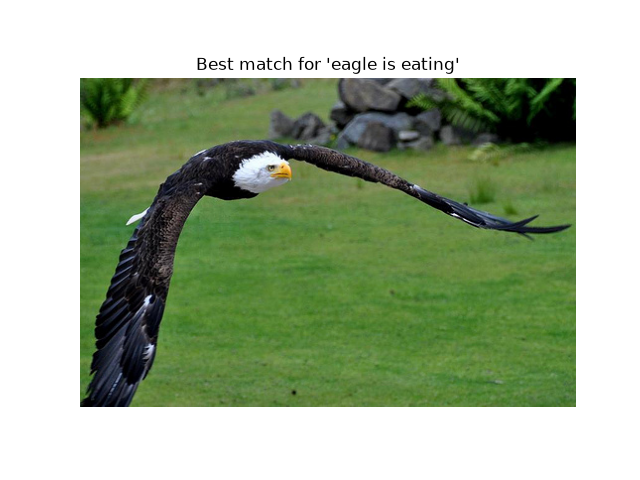
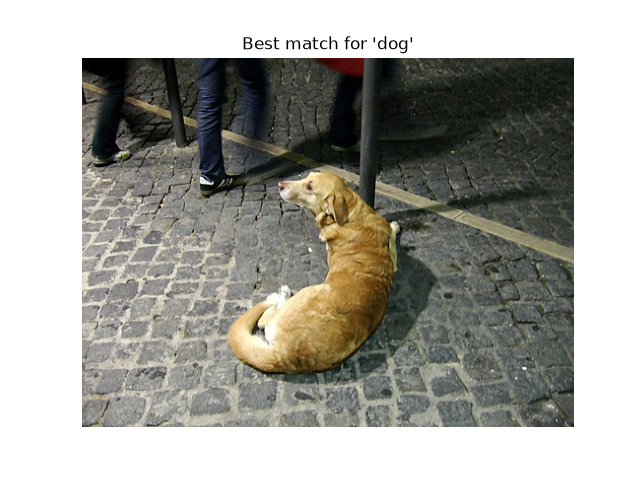
feat: add FastAPI search endpoint

diff --git a/src/api.py b/src/api.py
@@ -1,0 +1,123 @@
+from pathlib import Path
+import os
+import time
+from contextlib import asynccontextmanager
+
+import torch
+import faiss
+from fastapi import FastAPI, Request, Query
+from fastapi.staticfiles import StaticFiles
+from fastapi.responses import RedirectResponse
+from pydantic import BaseModel
+from fastapi.middleware.cors import CORSMiddleware
+
+from .model_loader import load_model
+
+INDEX_PATH = "outputs/faiss.index"
+EMBEDDINGS_PATH = "outputs/embeddings.pt"
+IMAGES_DIR = Path.home() / "Desktop" / "archive" / "Images"
+
+
+@asynccontextmanager
+async def lifespan(app: FastAPI):
+    print("Model and index loading")
+    start = time.perf_counter()
+
+    model, processor = load_model()
+
+    embeddings = torch.load(EMBEDDINGS_PATH)
+    filenames = list(embeddings.keys())
+    image_matrix = torch.stack(list(embeddings.values()))
+    image_matrix = image_matrix / image_matrix.norm(dim=1, keepdim=True)
+    image_matrix = image_matrix.numpy().astype("float32")
+
+    if os.path.exists(INDEX_PATH):
+        index = faiss.read_index(INDEX_PATH)
+    else:
+        index = faiss.IndexFlatIP(image_matrix.shape[1])
+        index.add(image_matrix)
+        faiss.write_index(index, INDEX_PATH)
+
+    app.state.model = model
+    app.state.processor = processor
+    app.state.index = index
+    app.state.filenames = filenames
+
+    print(f"Ready ({time.perf_counter() - start:.2f}s)")
+
+    yield
+
+    app.state.model = None
+    app.state.processor = None
+    app.state.index = None
+    app.state.filenames = None
+
+
+class SearchRequest(BaseModel):
+    query: str
+    k: int = 5
+
+
+class SearchResult(BaseModel):
+    filename: str
+    score: float
+    image_url: str
+
+
+class SearchResponse(BaseModel):
+    results: list[SearchResult]
+
+
+app = FastAPI(lifespan=lifespan)
+app.mount("/images", StaticFiles(directory=IMAGES_DIR), name="images")
+
+
+@app.get("/")
+def root():
+    return {"status": "ok"}
+
+
+@app.post("/search", response_model=SearchResponse)
+def search(payload: SearchRequest, request: Request):
+    model = request.app.state.model
+    processor = request.app.state.processor
+    index = request.app.state.index
+    filenames = request.app.state.filenames
+
+    text_inputs = processor(text=[payload.query], return_tensors="pt", padding=True)
+    with torch.no_grad():
+        text_features = model.get_text_features(**text_inputs)
+        text_features = text_features / text_features.norm(dim=1, keepdim=True)
+        text_features = text_features.numpy().astype("float32")
+
+    scores, indices = index.search(text_features, payload.k)
+
+    results = [
+        SearchResult(
+            filename=filenames[idx],
+            score=float(score),
+            image_url=f"/images/{filenames[idx]}",
+        )
+        for idx, score in zip(indices[0], scores[0])
+    ]
+
+    return SearchResponse(results=results)
+
+
+@app.get("/search-image")
+def search_image(request: Request, q: str = Query(..., min_length=1)):
+    model = request.app.state.model
+    processor = request.app.state.processor
+    index = request.app.state.index
+    filenames = request.app.state.filenames
+
+    text_inputs = processor(text=[q], return_tensors="pt", padding=True)
+    with torch.no_grad():
+        text_features = model.get_text_features(**text_inputs)
+        text_features = text_features / text_features.norm(dim=1, keepdim=True)
+        text_features = text_features.numpy().astype("float32")
+
+    scores, indices = index.search(text_features, 1)
+
+    best_filename = filenames[indices[0][0]]
+    return RedirectResponse(url=f"/images/{best_filename}")
